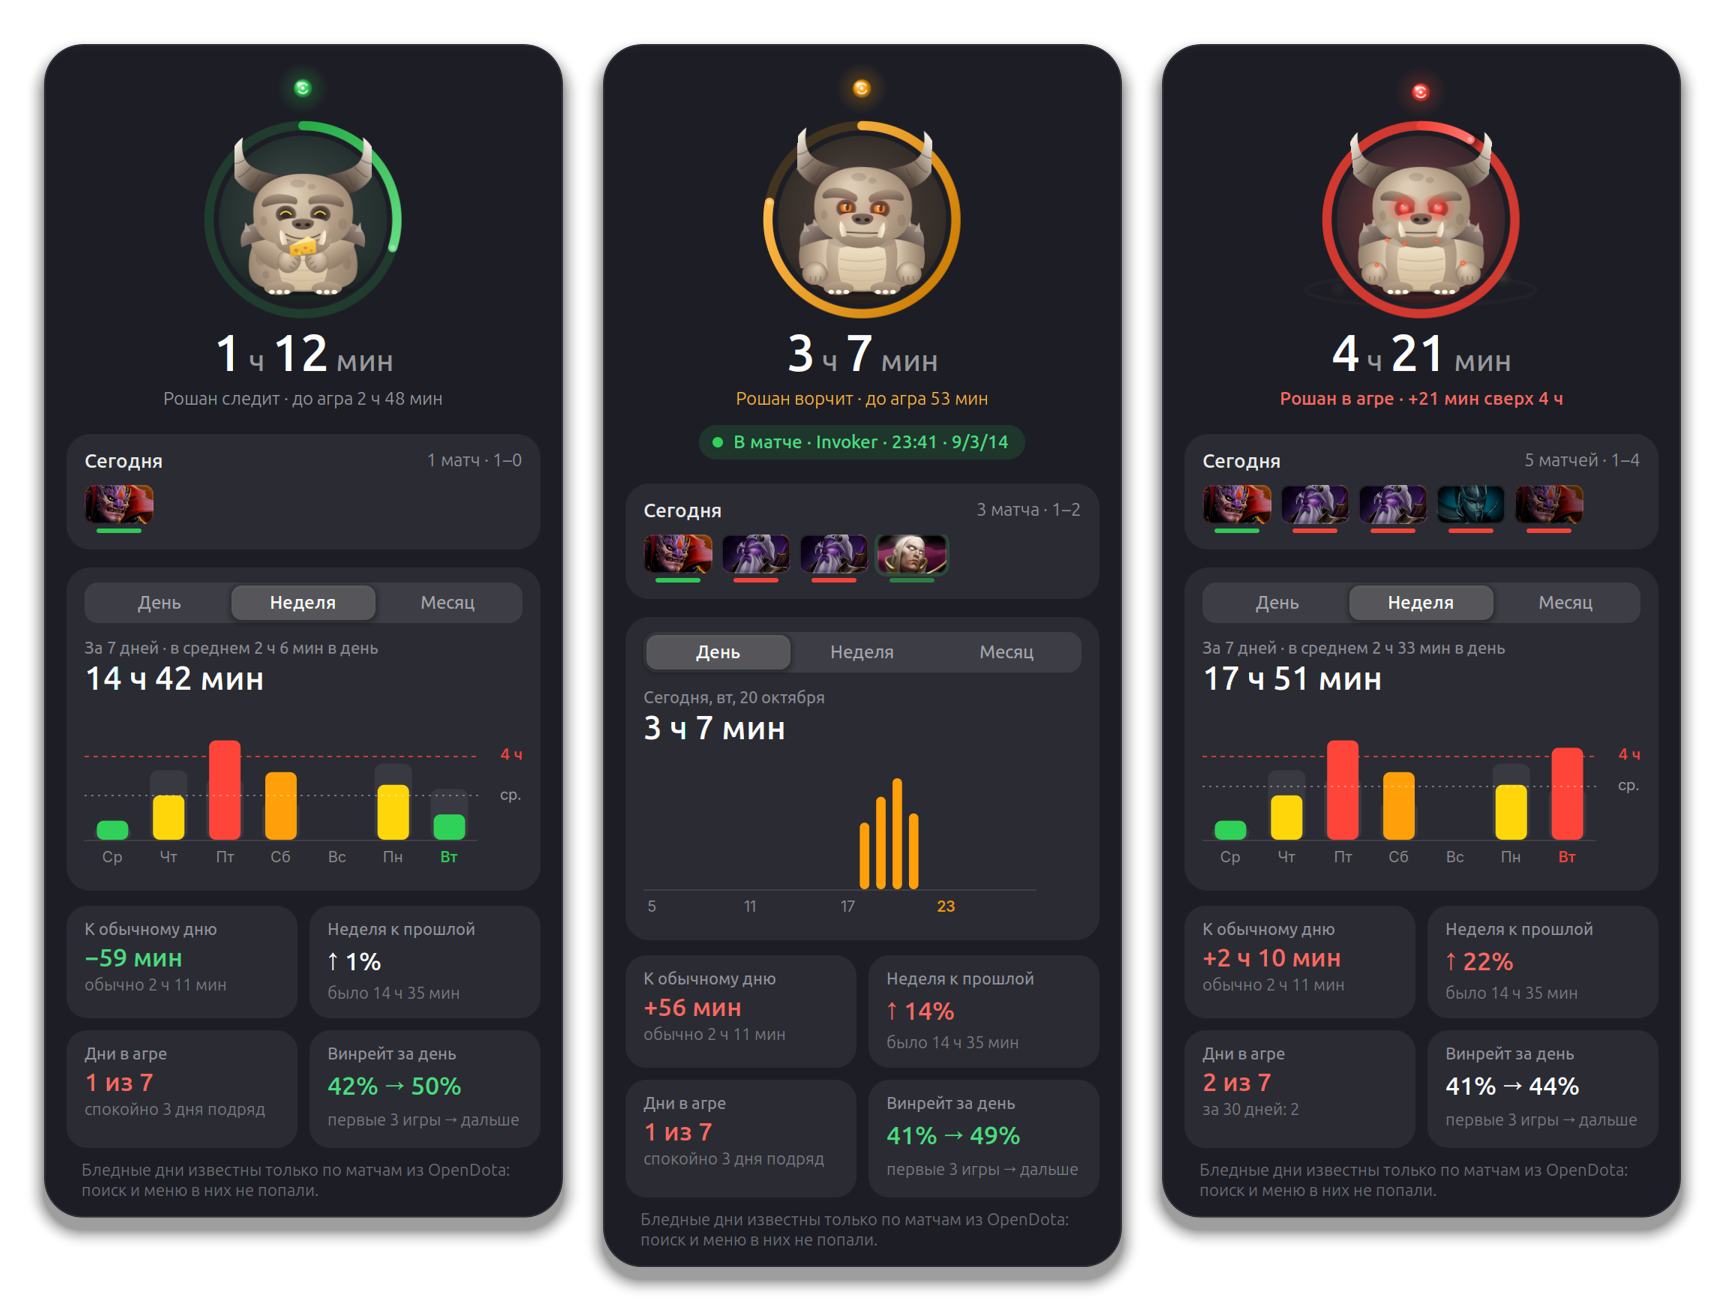
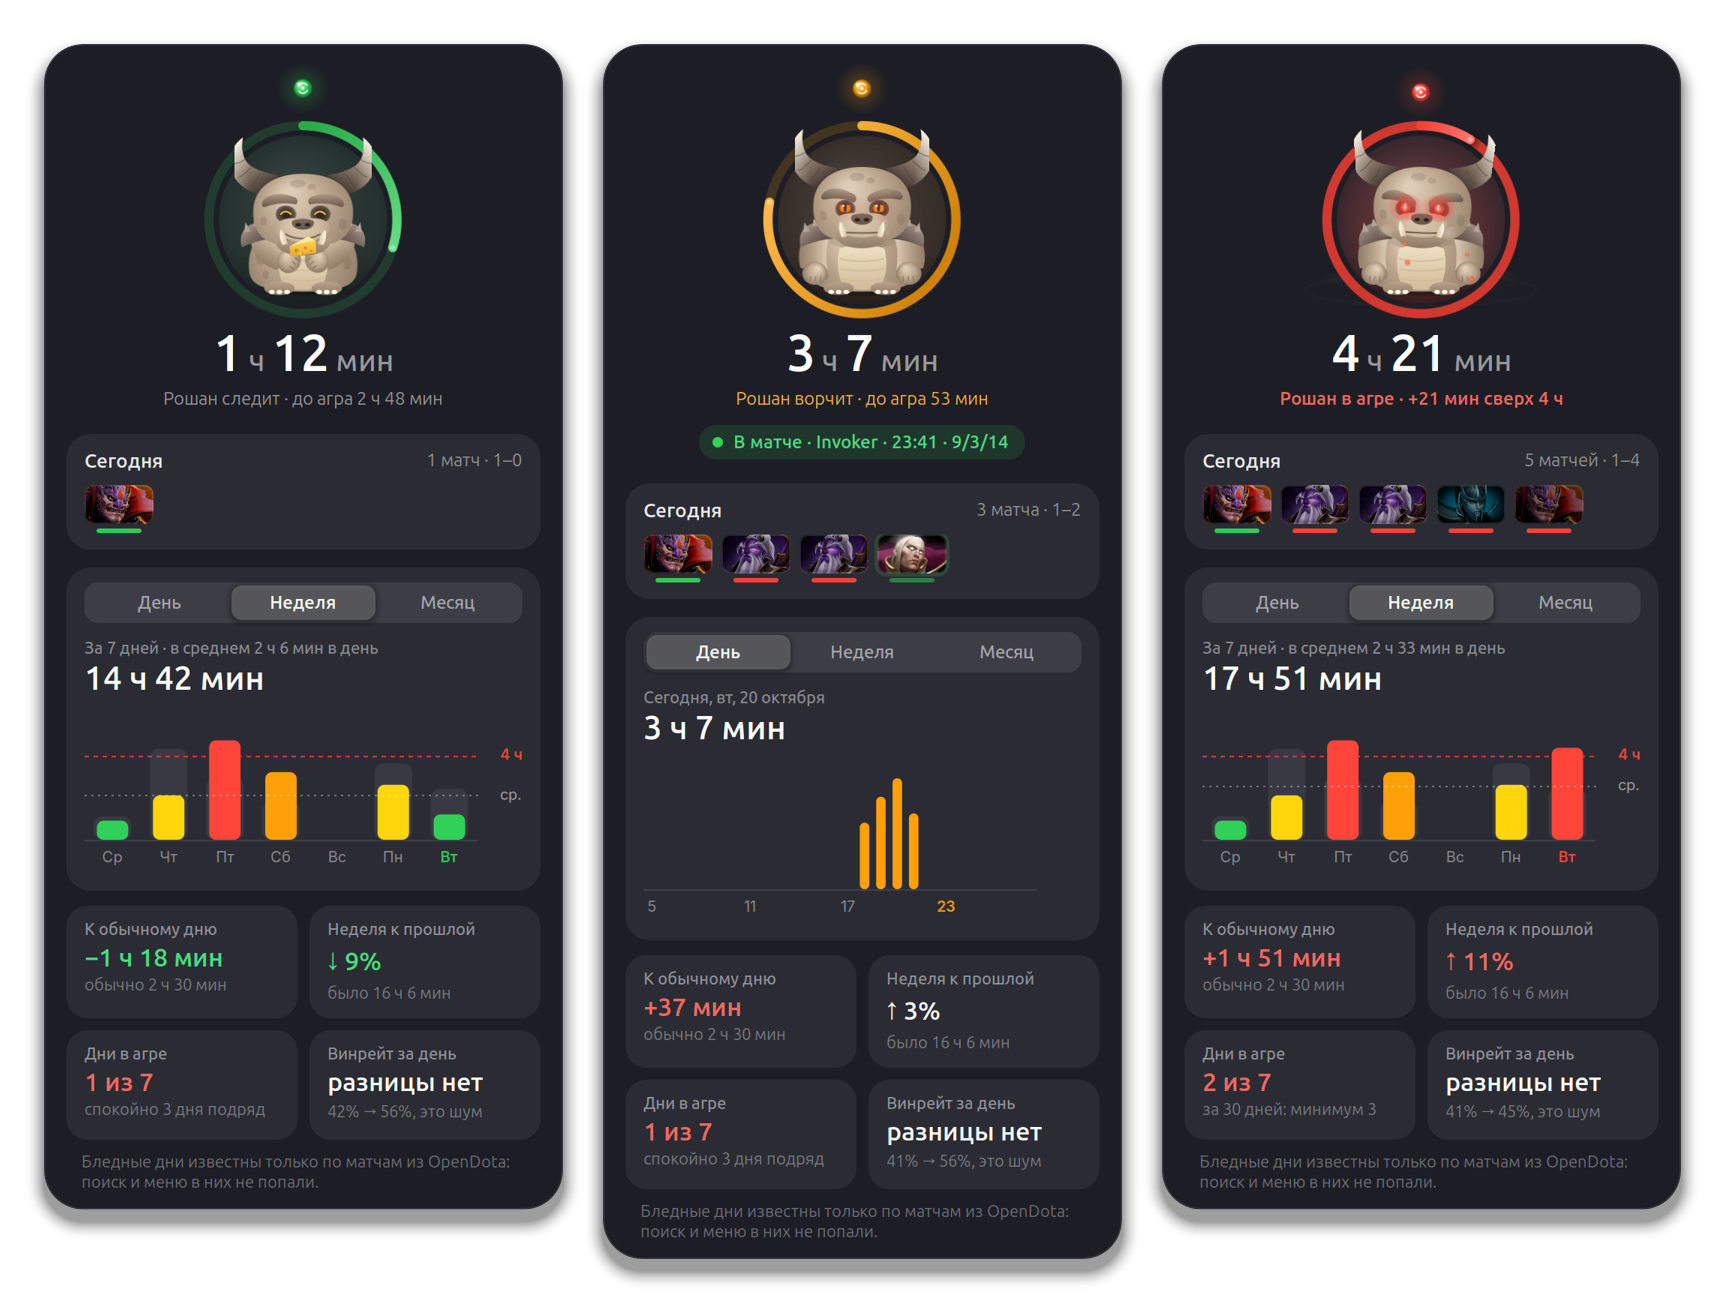
Compare like with like and call noise noise
A day seen whole holds the menu and the queue; a day from OpenDota holds only
match clocks. Comparisons now put the same quantity on both sides: the match
clock until enough days are seen whole, then the whole time. Tiles say which
("День в матчах", "Неделя в матчах"). The first full day is the one after
the extension starts.

Aggro counts that include days known only by their matches are marked as a
minimum, the calm streak counts only days seen whole, and the week chart
drops a ghost that would set a whole day against a match-only one.

The win-rate tile shows raw rates and a two-sided Fisher exact test. Unless
p < 0.05 it says "разницы нет" in a neutral colour: 32/71 against 24/44
(p = 0.34) is what chance gives.

diff --git a/dota-time@terentiy/ledger.js b/dota-time@terentiy/ledger.js
@@ -57,6 +57,9 @@ export class Ledger {
             .sort((a, b) => a[0] - b[0]);
         this.imported = {...data.imported};
         this.matches = new Map(Object.entries(data.matches ?? {}));
+        // The first game day known in full. From it on a day is all your time
+        // in Dota; before it, only the match clocks OpenDota knows.
+        this.since = typeof data.since === 'string' ? data.since : null;
         this.open = false;
     }
 
@@ -65,6 +68,7 @@ export class Ledger {
             segs: this.segs,
             imported: this.imported,
             matches: Object.fromEntries(this.matches),
+            since: this.since,
         };
     }
 
@@ -171,6 +175,9 @@ export class Ledger {
             tracked,
             unseen,
             total: tracked + unseen,
+            // the game clock only, from the horn: what every day has, old or new
+            matchTime: matches.reduce((sum, m) => sum + (m.d ?? 0), 0),
+            full: this.since !== null && key >= this.since,
             estimated: unseen > 60,
             matches,
             wins,
@@ -206,37 +213,45 @@ export class Ledger {
 
     // --- comparisons ----------------------------------------------------------
 
+    // Comparisons put like against like: whole days once enough of them are
+    // known in full, the match clock on both sides until then. `by` says which.
     stats(now) {
         const today = dayKey(now);
         const t = this.day(today, now);
         const past = this.series(addDays(today, -1), 56);
-        const played = past.filter(d => d.total >= 60);
-        const recent = played.slice(-28);
-        const usual = recent.length >= 3 ? median(recent.map(d => d.total)) : null;
+
+        let usual = null;
+        const fullDays = past.filter(d => d.full && d.total >= 60).slice(-28);
+        const matchDays = past.filter(d => d.matchTime >= 60).slice(-28);
+        if (t.full && fullDays.length >= 3)
+            usual = {by: 'total', value: median(fullDays.map(d => d.total)), today: t.total};
+        else if (matchDays.length >= 3)
+            usual = {by: 'matches', value: median(matchDays.map(d => d.matchTime)), today: t.matchTime};
 
         const week = this.series(today, 7, now);
         const prevWeek = this.series(addDays(today, -7), 7);
-        const sum = xs => xs.reduce((s, d) => s + d.total, 0);
-        const weekSum = sum(week), prevSum = sum(prevWeek);
+        const by = prevWeek.every(d => d.full) ? 'total' : 'matches';
+        const sum = xs => xs.reduce((s, d) => s + (by === 'total' ? d.total : d.matchTime), 0);
+        const knownSince = this.firstDay;
 
         const month = this.series(today, 30, now);
         const aggro = d => d.total >= AGGRO_HOURS * 3600;
 
-        // days in a row under four hours since anything is known
-        const knownSince = this.firstDay;
+        // Days in a row under four hours. Only full days can say so: one known by
+        // its matches alone may have had four hours of Dota around them.
         let calm = 0;
-        for (let i = past.length - 1; i >= 0; i--) {
-            if (aggro(past[i]) || knownSince === null || past[i].key < knownSince)
-                break;
+        for (let i = past.length - 1; i >= 0 && past[i].full && !aggro(past[i]); i--)
             calm++;
-        }
 
         return {
             today: t,
             usual,
-            week: {sum: weekSum, prev: prevSum, prevKnown: knownSince !== null && knownSince <= prevWeek[0].key},
+            week: {by, sum: sum(week), prev: sum(prevWeek), prevKnown: knownSince !== null && knownSince <= prevWeek[0].key},
+            // days known by their matches alone are a lower bound: counts can only grow
             aggroWeek: week.filter(aggro).length,
+            aggroWeekAtLeast: week.some(d => !d.full && !aggro(d)),
             aggroMonth: month.filter(aggro).length,
+            aggroMonthAtLeast: month.some(d => !d.full && !aggro(d)),
             calmStreak: aggro(t) ? 0 : calm,
             winrate: this.winrateByOrder(),
         };
@@ -259,9 +274,9 @@ export class Ledger {
         return first;
     }
 
-    // Win rate of the first three matches of a day against the rest, shrunk
-    // towards your overall rate so that a handful of games cannot shout.
-    winrateByOrder(prior = 8, minEach = 8) {
+    // Win rate of the first three matches of a day against the rest, and how
+    // likely a gap this size is by chance alone (Fisher's exact test).
+    winrateByOrder(minEach = 8) {
         const byDay = new Map();
         for (const m of this.matches.values()) {
             if (m.w !== 0 && m.w !== 1)
@@ -283,16 +298,41 @@ export class Ledger {
         const n = early.n + late.n;
         if (!n)
             return null;
-        const p0 = (early.w + late.w) / n;
-        const shrink = g => (g.w + prior * p0) / (g.n + prior);
+        const rate = g => g.n ? g.w / g.n : null;
+        const p = fisher(early.w, early.n, late.w, late.n);
         return {
             n,
-            overall: p0,
-            early: {...early, rate: shrink(early)},
-            late: {...late, rate: shrink(late)},
+            overall: (early.w + late.w) / n,
+            early: {...early, rate: rate(early)},
+            late: {...late, rate: rate(late)},
+            p,
+            real: p < 0.05,
             enough: early.n >= minEach && late.n >= minEach,
         };
     }
+}
+
+// Two-sided Fisher's exact test: the chance that wins split between a group of
+// `an` games and one of `bn` at least as unevenly as aw/an against bw/bn, if
+// both groups win equally often.
+export function fisher(aw, an, bw, bn) {
+    const n = an + bn, w = aw + bw;
+    if (!an || !bn)
+        return 1;
+    const lf = [0];
+    for (let i = 1; i <= n; i++)
+        lf.push(lf[i - 1] + Math.log(i));
+    // P(the first group won k), the totals fixed
+    const prob = k => Math.exp(lf[w] - lf[k] - lf[w - k] + lf[n - w] - lf[an - k] - lf[bn - w + k] -
+        lf[n] + lf[an] + lf[bn]);
+    const seen = prob(aw);
+    let p = 0;
+    for (let k = Math.max(0, w - bn); k <= Math.min(an, w); k++) {
+        const pk = prob(k);
+        if (pk <= seen * (1 + 1e-7))
+            p += pk;
+    }
+    return Math.min(1, p);
 }
 
 // --- formatting -----------------------------------------------------------------

diff --git a/dota-time@terentiy/card.js b/dota-time@terentiy/card.js
@@ -342,7 +342,8 @@ class Card extends St.BoxLayout {
         return {
             bars: days.map((d, i) => ({
                 v: hours[i],
-                ghost: prev ? prev[i].total / 3600 : 0,
+                // a day seen whole against one known by its matches alone would look like growth
+                ghost: prev && (prev[i].full || !d.full) ? prev[i].total / 3600 : 0,
                 est: d.estimated,
                 color: this._barColor(hours[i]),
                 strong: i === days.length - 1,
@@ -411,34 +412,47 @@ class Card extends St.BoxLayout {
         const m = this._model, s = m.stats, [usual, week, aggro, fourth] = this._tiles;
         const signed = d => `${d > 0 ? '+' : '−'}${formatDuration(Math.abs(d))}`;
 
-        if (s.usual === null)
+        // `by` matches: the days compared are known only by their match clocks,
+        // so today is counted the same way
+        const u = s.usual;
+        if (u === null)
             usual.set('Обычный день', '—', 'нужно 3 игровых дня');
-        else if (m.today.total < 60)
-            usual.set('Обычный день', formatDuration(s.usual), 'медиана игровых дней');
-        else if (Math.abs(m.today.total - s.usual) < 5 * 60)
-            usual.set('К обычному дню', 'как обычно', `обычно ${formatDuration(s.usual)}`);
+        else if (u.today < 60)
+            usual.set(u.by === 'total' ? 'Обычный день' : 'Обычно в матчах', formatDuration(u.value), 'медиана игровых дней');
+        else if (Math.abs(u.today - u.value) < 5 * 60)
+            usual.set(u.by === 'total' ? 'К обычному дню' : 'День в матчах', 'как обычно', `обычно ${formatDuration(u.value)}`);
         else
-            usual.set('К обычному дню', signed(m.today.total - s.usual), `обычно ${formatDuration(s.usual)}`,
-                m.today.total > s.usual ? 'red' : 'green');
+            usual.set(u.by === 'total' ? 'К обычному дню' : 'День в матчах', signed(u.today - u.value),
+                `обычно ${formatDuration(u.value)}`, u.today > u.value ? 'red' : 'green');
 
         const p = s.week.prevKnown ? percentChange(s.week.sum, s.week.prev) : null;
+        const weekLabel = s.week.by === 'total' ? 'Неделя к прошлой' : 'Неделя в матчах';
         if (p === null)
-            week.set('Неделя', formatDuration(s.week.sum), 'прошлой ещё нет');
+            week.set(weekLabel, formatDuration(s.week.sum), 'прошлой ещё нет');
         else
-            week.set('Неделя к прошлой', p === 0 ? 'так же' : `${p > 0 ? '↑' : '↓'} ${Math.abs(p)}%`,
+            week.set(weekLabel, p === 0 ? 'так же' : `${p > 0 ? '↑' : '↓'} ${Math.abs(p)}%`,
                 `было ${formatDuration(s.week.prev)}`, p > 5 ? 'red' : p < -5 ? 'green' : '');
 
+        // a day known by its matches alone can only turn out longer: counts are a minimum
         const streak = s.calmStreak;
-        aggro.set('Дни в агре', `${s.aggroWeek} из 7`,
-            streak > 1 ? `спокойно ${streak} ${plural(streak, 'день', 'дня', 'дней')} подряд` : `за 30 дней: ${s.aggroMonth}`,
-            s.aggroWeek > 0 ? 'red' : 'green');
+        let aggroSub;
+        if (s.aggroWeekAtLeast)
+            aggroSub = 'минимум: дни по матчам';
+        else if (streak > 1)
+            aggroSub = `спокойно ${streak} ${plural(streak, 'день', 'дня', 'дней')} подряд`;
+        else
+            aggroSub = `за 30 дней: ${s.aggroMonthAtLeast ? 'минимум ' : ''}${s.aggroMonth}`;
+        aggro.set('Дни в агре', `${s.aggroWeek} из 7`, aggroSub, s.aggroWeek > 0 ? 'red' : 'green');
 
         const w = s.winrate;
-        if (w?.enough) {
-            const pc = x => `${Math.round(x * 100)}%`;
+        const pc = x => `${Math.round(x * 100)}%`;
+        if (w?.enough && w.real) {
             const drop = w.late.rate - w.early.rate;
             fourth.set('Винрейт за день', `${pc(w.early.rate)} → ${pc(w.late.rate)}`, 'первые 3 игры → дальше',
-                drop < -0.04 ? 'red' : drop > 0.04 ? 'green' : '');
+                drop < 0 ? 'red' : 'green');
+        } else if (w?.enough) {
+            // the gap is what chance alone gives often enough: say so, no colour
+            fourth.set('Винрейт за день', 'разницы нет', `${pc(w.early.rate)} → ${pc(w.late.rate)}, это шум`);
         } else {
             const ms = m.week.flatMap(d => d.matches);
             const wins = ms.filter(x => x.w === 1).length, losses = ms.filter(x => x.w === 0).length;

diff --git a/tests/ledger.test.js b/tests/ledger.test.js
@@ -1,5 +1,5 @@
 import {
-    AFK_LIMIT, Ledger, addDays, dayKey, dayStart, formatClock, formatDuration, importHistory, plural,
+    AFK_LIMIT, Ledger, addDays, dayKey, dayStart, fisher, formatClock, formatDuration, importHistory, plural,
 } from '../dota-time@terentiy/ledger.js';
 import {assert, deepEqual, equal, near, test} from './harness.js';
 
@@ -108,13 +108,16 @@ test('today stops at now', () => {
 
 test('stats: usual day, week against week, aggro days, calm streak', () => {
     const l = new Ledger();
+    l.since = '2026-10-01';
     // two weeks: 2 h a day, except one 5-hour day
     for (let d = 5; d <= 18; d++)
         playFor(l, at(d, 18), d === 15 ? 5 * 3600 : 2 * 3600);
     playFor(l, at(20, 18), 3600);
     const s = l.stats(at(20, 20));
-    equal(s.usual, 2 * 3600);
+    deepEqual(s.usual, {by: 'total', value: 2 * 3600, today: 3600});
+    equal(s.week.by, 'total');
     equal(s.aggroWeek, 1);
+    assert(!s.aggroWeekAtLeast);
     equal(s.calmStreak, 4, 'the 16th, 17th, 18th and the empty 19th');
     equal(s.today.total, 3600);
     assert(s.week.prevKnown);
@@ -123,7 +126,47 @@ test('stats: usual day, week against week, aggro days, calm streak', () => {
     equal(s.week.prev, 14 * 3600);
 });
 
-test('win rate of the first three matches against the rest is shrunk', () => {
+test('days known only by their matches are compared by the match clock', () => {
+    const l = new Ledger();
+    // history from OpenDota: two 40-minute matches a day
+    let id = 1;
+    for (let d = 6; d <= 19; d++) {
+        for (const h of [18, 19])
+            l.addMatch({id: String(id++), t: at(d, h), d: 2400, w: 1, src: 'od'});
+    }
+    // today in full: an hour of menu and queue around one 40-minute match
+    l.since = '2026-10-20';
+    playFor(l, at(20, 18), 3600);
+    l.addMatch({id: String(id++), t: at(20, 18, 10), d: 2400, w: 0, src: 'gsi'});
+    const s = l.stats(at(20, 20));
+    equal(s.today.total, 3600);
+    equal(s.today.matchTime, 2400);
+    deepEqual(s.usual, {by: 'matches', value: 4800, today: 2400}, 'not 3600 against 4800');
+    equal(s.week.by, 'matches');
+    equal(s.week.sum, 13 * 2400);
+    equal(s.week.prev, 14 * 2400);
+    equal(s.calmStreak, 0, 'a day known by its matches says nothing about four hours');
+    assert(s.aggroWeekAtLeast && s.aggroMonthAtLeast);
+
+    // three full days later the whole time is compared
+    for (const d of [21, 22, 23])
+        playFor(l, at(d, 18), 2 * 3600);
+    playFor(l, at(24, 18), 3 * 3600);
+    const later = l.stats(at(24, 22));
+    deepEqual(later.usual, {by: 'total', value: 2 * 3600, today: 3 * 3600});
+    equal(later.calmStreak, 4, 'the 20th to the 23rd');
+});
+
+test('Fisher’s exact test matches the textbook values', () => {
+    // reference values from exact binomial coefficients
+    near(fisher(32, 71, 24, 44), 0.343648, 1e-6);
+    near(fisher(3, 8, 7, 8), 0.118881, 1e-6);
+    equal(fisher(5, 10, 5, 10), 1);
+    assert(fisher(18, 18, 0, 18) < 1e-9);
+    equal(fisher(0, 0, 3, 5), 1);
+});
+
+test('win rate of the first three matches against the rest, with its p-value', () => {
     const l = new Ledger();
     let id = 1;
     for (let d = 1; d <= 6; d++) {
@@ -134,10 +177,25 @@ test('win rate of the first three matches against the rest is shrunk', () => {
     equal(w.n, 36);
     equal(w.early.n, 18);
     near(w.overall, 0.5, 1e-9);
-    // raw 100% and 0%, pulled towards 50% by eight imaginary games
-    near(w.early.rate, (18 + 4) / 26, 1e-9);
-    near(w.late.rate, 4 / 26, 1e-9);
-    assert(w.enough);
+    equal(w.early.rate, 1);
+    equal(w.late.rate, 0);
+    assert(w.enough && w.real);
+
+    // 32 of 71 against 24 of 44, as in real life: a gap chance explains
+    const r = new Ledger();
+    let k = 1;
+    const day = (d, results) => results.forEach((x, i) => r.addMatch({id: String(k++), t: at(d, 12 + i), d: 2400, w: x, src: 'od'}));
+    const games = [...Array(32).fill(1), ...Array(39).fill(0)];
+    const later = [...Array(24).fill(1), ...Array(20).fill(0)];
+    for (let d = 0; d < 24; d++) {
+        const first = games.splice(0, 3);
+        if (first.length)
+            day(1 + d, [...first, ...later.splice(0, 2)]);
+    }
+    const g = r.winrateByOrder();
+    deepEqual([g.early.w, g.early.n, g.late.w, g.late.n], [32, 71, 24, 44]);
+    near(g.p, 0.343648, 1e-6);
+    assert(!g.real);
 });
 
 test('the ledger survives a round trip through JSON', () => {

diff --git a/tools/media/dt-media@local/extension.js b/tools/media/dt-media@local/extension.js
@@ -92,7 +92,7 @@ function demoLedger(now, today) {
     const R = rng(7);
     const L = new Ledger();
     const key = dayKey(now);
-    const installed = addDays(key, -11);
+    const installed = addDays(key, -14);
     let id = 8000000000;
     const hoursFor = [1.4, 2.6, 0, 3.2, 4.7, 2.1, 0.9, 2.4, 3.6, 0, 1.8, 2.9, 4.3, 1.1, 2.2,
         0, 3.0, 2.5, 1.6, 0, 3.4, 2.7, 4.4, 1.9, 0.8, 2.3, 3.1, 0, 2.0, 1.5];
@@ -126,6 +126,7 @@ function demoLedger(now, today) {
     for (const [start, minutes] of today)
         play(key, start, minutes, true);
     L.segs.sort((a, b) => a[0] - b[0]);
+    L.since = installed;
     return L;
 }
 
@@ -189,7 +190,7 @@ export default class Media extends Extension {
             const L = demoLedger(now, sc.today);
             models[k] = demoModel(L, now, sc);
             log(`${k}: today=${formatClock(models[k].today.total)} matches=${models[k].today.matches.length} ` +
-                `week=${formatClock(models[k].stats.week.sum)} usual=${formatClock(models[k].stats.usual ?? 0)}`);
+                `week=${formatClock(models[k].stats.week.sum)} usual=${formatClock(models[k].stats.usual?.value ?? 0)}(${models[k].stats.usual?.by})`);
         }
         // fetch the portraits first
         for (const id of HEROES)
@@ -267,6 +268,10 @@ export default class Media extends Extension {
             await sleep(1000);
         log(`backfill ok=${!!me._state.od.backfillOk} after ${Math.round((now() - t0) / 1000)} s, ` +
             `matches=${me._ledger.matches.size} odError=${me._odError}`);
+        const st = me._ledger.stats(Date.now() / 1000);
+        log(`since=${me._ledger.since} usual=${JSON.stringify(st.usual)} week=${JSON.stringify(st.week)} ` +
+            `aggro=${st.aggroWeek}${st.aggroWeekAtLeast ? '+' : ''}/${st.aggroMonth}${st.aggroMonthAtLeast ? '+' : ''} ` +
+            `winrate=${st.winrate ? `${st.winrate.early.w}/${st.winrate.early.n} ${st.winrate.late.w}/${st.winrate.late.n} p=${st.winrate.p.toFixed(3)}` : 'none'}`);
         await shot('panel', rectOf(ind, 10));
         ind.menu.open();
         await sleep(2500);

diff --git a/dota-time@terentiy/extension.js b/dota-time@terentiy/extension.js
@@ -67,6 +67,8 @@ export default class DotaTimeExtension extends Extension {
         this._ledger = new Ledger(saved?.ledger);
         if (!saved)
             this._importOld(GLib.build_filenamev([stateDir, 'history.json']));
+        // today began before we did; tomorrow is the first day seen whole
+        this._ledger.since ??= addDays(dayKey(wallClock()), 1);
 
         this._game = new GameState(this._state.token);
         this._gsiMode = null;
